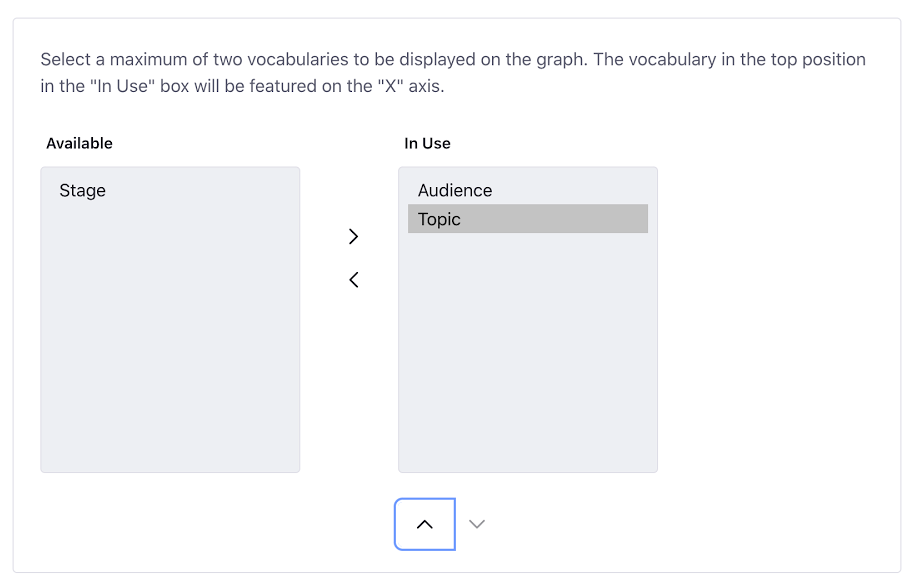
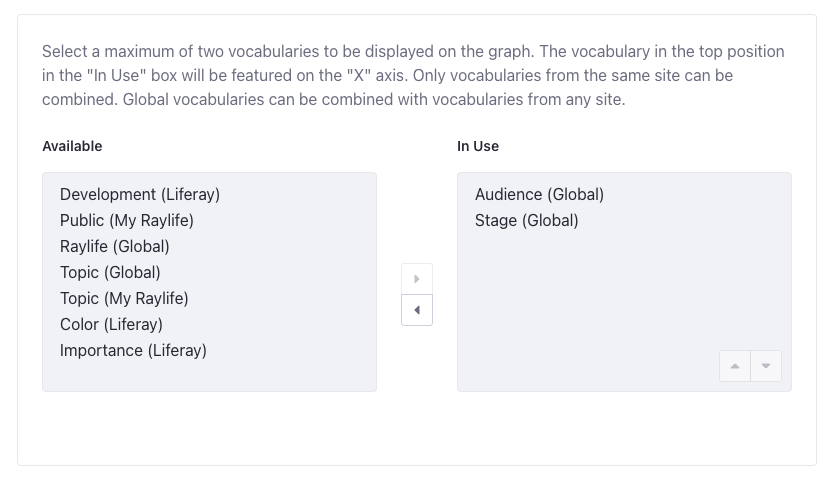
LRDOCS-10075-Site-vocabularies-audit-tool

diff --git a/docs/dxp/latest/en/content-authoring-and-management/content-dashboard/content-dashboard-interface.md b/docs/dxp/latest/en/content-authoring-and-management/content-dashboard/content-dashboard-interface.md
@@ -23,7 +23,7 @@ To access the Content Info sidebar, click the *Actions Menu* (![Action Menu](../
 
 ## Content Audit Tool
 
-This tool is the graphical area at the top of the Content Dashboard page. The chart represents the total number of assets for the combination of categories in the global Vocabularies you select. This chart takes into account:
+This tool is the graphical area at the top of the Content Dashboard page. The chart represents the total number of assets for the combination of vocabularies categories including *global* and all *sites & asset libraries* in the instance. This chart takes into account:
 
 - [Web Content Articles](../web-content/web-content-articles/adding-a-basic-web-content-article.md) and [Documents and Media](../documents-and-media/documents-and-media-overview.md) across all Sites and Asset Libraries.
 
@@ -33,7 +33,7 @@ This tool is the graphical area at the top of the Content Dashboard page. The ch
 
 - Content you can access.
 - The existing [filters](#filtering-and-sorting-content-in-the-contents-list) in the [Contents list](#contents-list).
-- A maximum of two global Vocabularies (for the *x* and *y* axes.)
+- A maximum of two Vocabularies (for the *x* and *y* axes.)
 
 ![Overview of the Content Audit Tool in the Content Dashboard](./content-dashboard-interface/images/10.png)
 
@@ -50,22 +50,22 @@ The following video shows and overview of the Content Audit tool:
 In the Content Audit Tool interface you can find:
 
 - Chart legend (1)
-- *X*-axis Categories for the first global Vocabulary (2)
-- *Y*-axis Categories for the second global Vocabulary (3)
+- *X*-axis Categories for the first Vocabulary (2)
+- *Y*-axis Categories for the second Vocabulary (3)
 - Bar chart (4)
 
 ![Overview of the Content Performance user interface](./content-dashboard-interface/images/04.png)
 
 ### Customizing the Vocabularies and Categories in the Content Audit Tool
 
-By default, the bar chart shows the total number of assets for each Category in the selected global Vocabularies, but you can filter this information in different ways:
+By default, the bar chart shows the total number of assets for each Category in the selected Vocabularies, but you can filter this information in different ways:
 
 - Use the [filters](#filtering-and-sorting-content-in-the-contents-list) in the [Contents list](#contents-list).
 - Filter categories in the chart by checking or unchecking the Category name in the chart legend.
 - Click one of the bars to zoom-in on a specific Category's results.
-- Change the Vocabularies.
+- Change which Vocabularies are displayed in the graph.
 
-To change the Vocabularies:
+To change these Vocabularies:
 
 1. Click the *Configure Chart* icon (![gear icon](../../images/icon-settings.png)) in the Content Audit area.
 1. In the dual listbox, click the Vocabulary in the *Available* or *In Use* lists and click the selection buttons (![Angle Left](../../images/icon-angle-left.png) ![Angle right](../../images/icon-angle-right.png)) to add or remove the Vocabularies you want to show.
@@ -76,7 +76,7 @@ To change the Vocabularies:
     ![Select the Vocabularies in the Content Audit Tool](./content-dashboard-interface/images/12.png)
 
 ```{note}
-You can select a maximum of two Vocabularies defined at the Global Site level.
+You can select a maximum of two Vocabularies. Only vocabularies from the same site can be combined. Global vocabularies can be combined with vocabularies from any site.
 ```
 
 A gray bar denotes content without any categories in one of the selected Vocabularies. Chart labels for this content are distinctive. For instance, when you choose the Audience Vocabulary, the content that is not categorized under Audience shows the *No Audience Specified* label.
